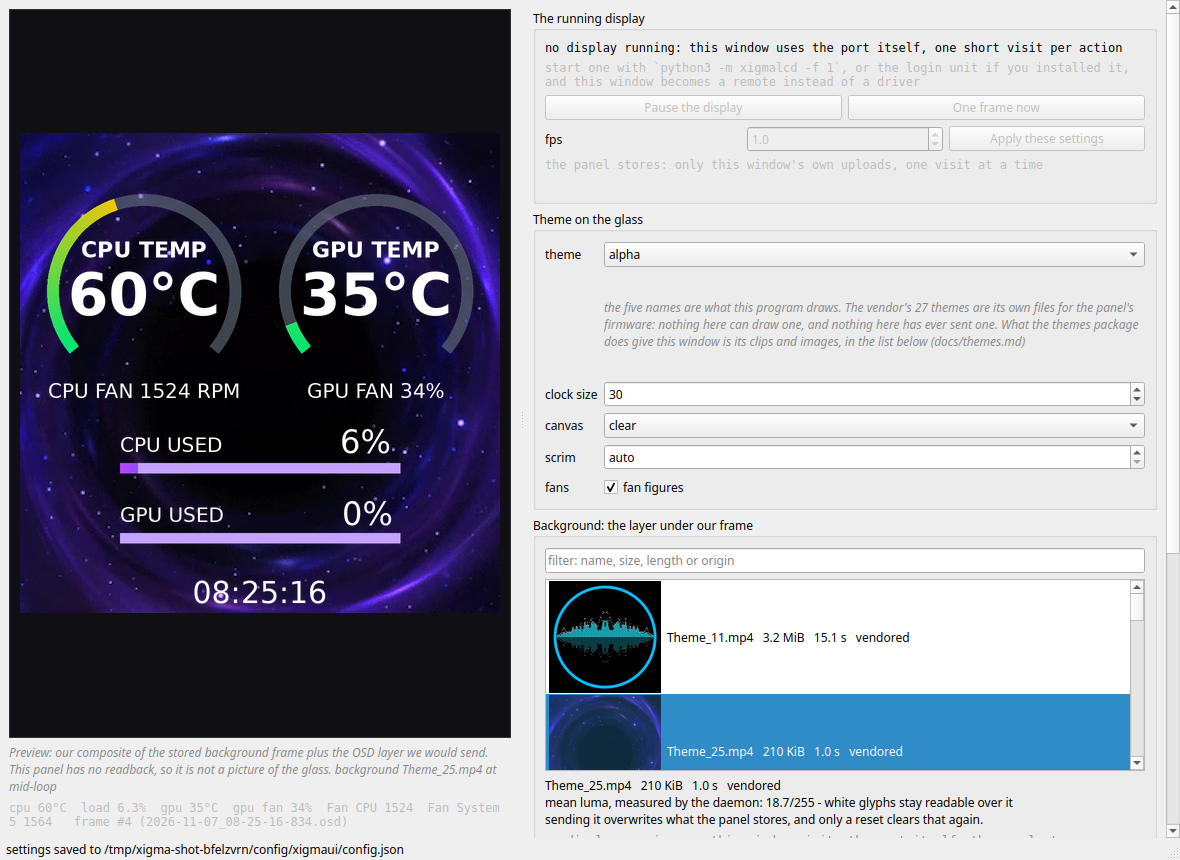
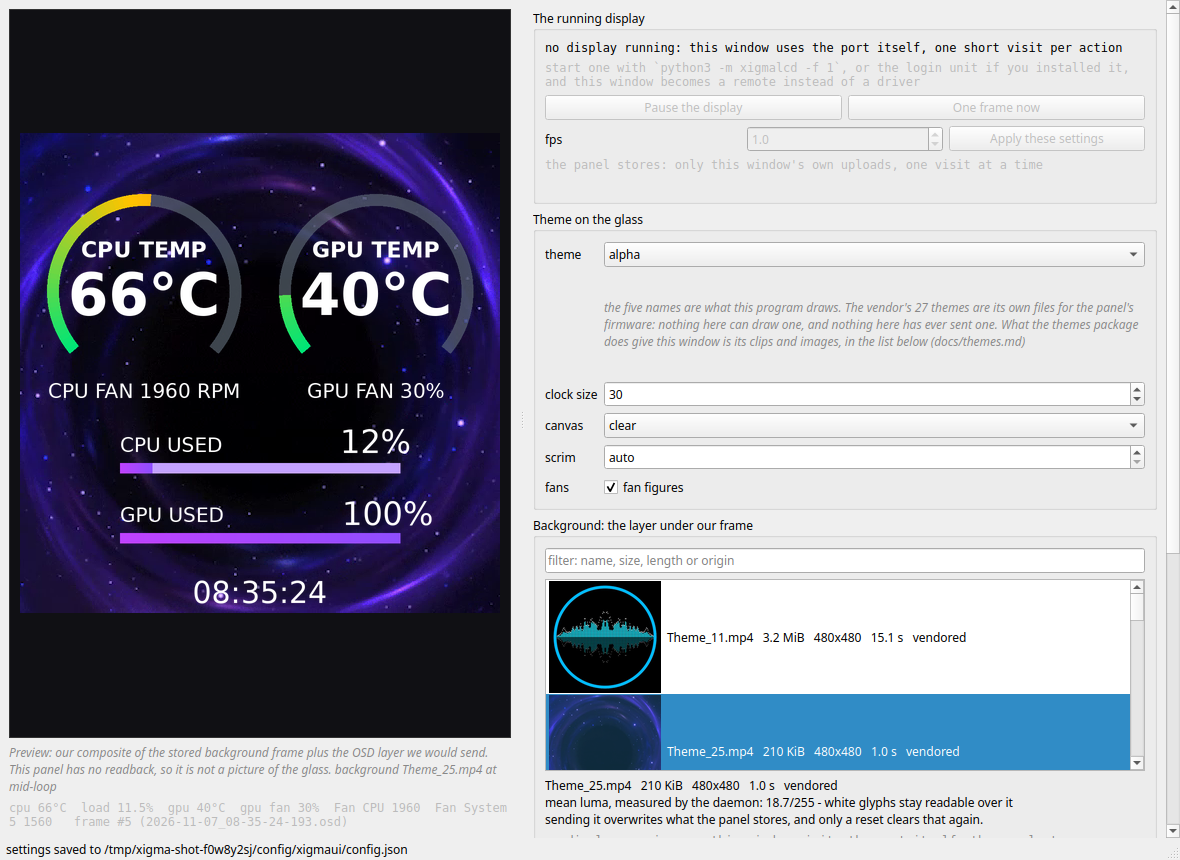
xigmaui, docs: every clip row says what size the file is, because the vendor's own library is not all 480x480
ffprobe over the installed themes tree, on this bench: `/usr/share/xigmalcd/themes/
alpha/clips/` holds 43 clips, **40 at 480x480** and **3 at 320x240** -
`2024-05-30_13-43-24-476.mp4`, `2024-05-30_14-09-30-913.mp4`,
`2024-05-31_15-01-03-396.mp4`. The three clips this repository vendors are 480x480.

So the vendor ships backgrounds the panel is not the size of, which means something -
the panel, or ALPHA - scales them, and this project has never measured what: there is no
readback (§11), and nobody has looked at the glass with one of those three stored. The
honest response is to show the number and refuse the inference:

* `xigmaui/clips.py` probes width and height in the same ffprobe call it already made
  for the loop length - no extra process per clip, so the 12.7 s thumbnail pass on this
  box does not get slower - and `Clip.px` carries it;
* every picker row now reads `name   size   480x480   15.1 s   origin`;
* and selecting a file that is not the glass's size adds one line under the list: "this
  file is 320x240, not the panel's 480x480: what it does with that is not measured, so
  the preview above is a guess". The preview composites that frame at 480x480 because
  that is what `_repaint` does, and labelling it a guess is cheaper than pretending the
  composite is the glass.

docs/limits.md keeps the measurement and the gap; docs/themes.md says the same where a
reader is looking at the library; docs/gui.md's walk-through row carries it.
[…]

diff --git a/xigmaui/clips.py b/xigmaui/clips.py
@@ -55,6 +55,7 @@ class Clip:
     origin: str                  # "vendored", "vendor library" or "app upload"
     bytes: int = 0
     seconds: float = 0.0
+    px: tuple = (0, 0)             # width, height; (0, 0) until probed
     luma: float = -1.0           # mean of 0-255, -1 until measured
     note: str = ""
     thumbs: dict = field(default_factory=dict, repr=False)
@@ -76,14 +77,29 @@ class Clip:
             else f"{self.bytes / 1024 / 1024:.1f} MiB"
 
 
-def _ffprobe_duration(path: str) -> float:
+def _ffprobe_look(path: str) -> tuple[float, int, int]:
+    """One ffprobe, three numbers: seconds, and the frame's width and height.
+
+    The geometry is not decoration.  Of the 43 clips the themes package installs,
+    40 are 480x480 - the panel's own size - and **3 are 320x240** (measured on the
+    installed tree with the same call, the odd ones being the timestamp-named
+    `2024-05-30_*` and `2024-05-31_*` files the vendor app's own history holds);
+    all three clips this repository vendors are 480x480.  What the panel does with
+    a file that is not its size is not measured and cannot be - there is no
+    readback (§11) - so the picker shows the number and leaves the inference to
+    you rather than making one.
+    """
     try:
-        out = subprocess.run(["ffprobe", "-v", "error", "-show_entries",
-                              "format=duration", "-of", "default=nk=1:nw=1",
-                              path], capture_output=True, text=True, check=True)
-        return float(out.stdout.strip())
-    except (OSError, ValueError, subprocess.CalledProcessError):
-        return 0.0
+        out = subprocess.run(
+            ["ffprobe", "-v", "error", "-select_streams", "v:0",
+             "-show_entries", "stream=width,height", "-show_entries",
+             "format=duration", "-of", "default=nw=1:nk=1", path],
+            capture_output=True, text=True, check=True)
+        numbers = [ln.strip() for ln in out.stdout.splitlines() if ln.strip()]
+        w, h = (int(numbers[0]), int(numbers[1])) if len(numbers) >= 3 else (0, 0)
+        return float(numbers[-1]), w, h
+    except (OSError, ValueError, IndexError, subprocess.CalledProcessError):
+        return 0.0, 0, 0
 
 
 def frame(path: str, at: float = 0.5) -> Image.Image | None:
@@ -101,7 +117,7 @@ def frame(path: str, at: float = 0.5) -> Image.Image | None:
     hit = _FRAME_CACHE.get(key)
     if hit is not None:
         return hit.copy()
-    dur = _ffprobe_duration(path)
+    dur, _wide, _tall = _ffprobe_look(path)   # the size is for the picker
     seek = dur * at if dur > 0.2 else 0.0
     try:
         out = subprocess.run(
@@ -204,9 +220,10 @@ def list_clips(extra: str = "") -> list[Clip]:
 
 
 def probe(clip: Clip) -> float:
-    """Measure one clip's loop length. Cheap enough to do a row at a time."""
-    if not clip.seconds:
-        clip.seconds = _ffprobe_duration(clip.path)
+    """Measure one clip's loop length and frame size. One row at a time."""
+    if not clip.seconds or not clip.px[0]:
+        clip.seconds, w, h = _ffprobe_look(clip.path)
+        clip.px = (w, h)
     return clip.seconds
 
 

diff --git a/xigmaui/app.py b/xigmaui/app.py
@@ -686,6 +686,7 @@ class Window(QMainWindow):
     def _row(self, c: clipdb.Clip) -> str:
         """One picker row. The loop length appears once it has been probed."""
         return (f"{c.name}   {c.size}   "
+                f"{f'{c.px[0]}x{c.px[1]}' if c.px[0] else 'size ?'}   "
                 f"{f'{c.seconds:.1f} s' if c.seconds else 'loop  ?'}   {c.origin}")
 
     def _populate_clips(self) -> None:
@@ -796,7 +797,20 @@ class Window(QMainWindow):
                        else "mean luma, measured just now from a decoded frame")
                 need = ("needs a scrim plate for white glyphs" if lum > BRIGHT_LUMA
                         else "white glyphs stay readable over it")
+                size_note = ""
+                if c.px[0] and c.px != (render.W, render.H):
+                    # measured here with ffprobe, and the honest half of it stays
+                    # unmeasured: 40 of the 43 clips the themes package installs are
+                    # 480x480 and 3 are 320x240, and what the panel does with a file
+                    # that is not its own size is something no log can show, because
+                    # there is no readback (§11).  So the number is shown and the
+                    # inference is left to the reader, with the preview labelled a guess
+                    size_note = (f"\nthis file is {c.px[0]}x{c.px[1]}, not the "
+                                 f"panel's {render.W}x{render.H}: what it does with "
+                                 f"that is not measured, so the preview above is a "
+                                 f"guess")
                 return (f"\n{how}: {lum:.1f}/255 - {need}"
+                        f"{size_note}"
                         f"\nsending it overwrites what the panel stores, and "
                         f"only a reset clears that again.")
         return ""

diff --git a/docs/gui.md b/docs/gui.md
@@ -69,7 +69,7 @@ there is one place to change when a number is re-measured.
 | the running display | what the socket says another process is drawing: one sentence, the counters (`40/41 uploads the panel confirmed, 0 refused, 1 renewal`, session age, last file and notice, `space`), **what the panel stores as its background** (`the panel stores: theme_47.mp4`, read out of the display's own event ring), and the ring itself - the last six things that display did on the port, with its verdict on each upload. Pause, one frame, an fps spin, `Apply these settings` (Ctrl+Return) | socket only; the port is never opened. Measured 1 ms for the six commands Apply sends |
 | preview | the stored background frame with `render.draw`'s OSD layer composited on top, refreshed at `--preview-fps` (default 2). Its column is capped at 480 px plus the pane's chrome, and the picture is never drawn larger than the glass is - see "How wide each half gets" below | nothing |
 | theme | the five themes, clock size, `clear`/`black` canvas, scrim, fan figures, and a line saying what the vendor's 27 themes in the other package are and are not | nothing until you press Apply (display running) or one of the send buttons (not running) |
-| clips | every MP4 the roots hold, listed once per clip - **69 rows** on this box: 3 vendored here, 40 more from the vendor's library, 26 more from the 69 files the Windows app has pushed to this panel (the rest are byte-identical re-uploads); the last two sources are read off the mounted Windows partition or the installed themes package, and a clip that exists in two roots keeps the row from the root the code would have chosen. Each row gets an ffmpeg thumbnail and its measured mean luma. One filter field above the list, and a row the display's own gate would refuse is greyed with its reason in the tooltip | the window's **one** upload button, `Send this background to the panel` (Ctrl+Shift+U): `STATE all 1` twice, then the whole file as one media file |
+| clips | every MP4 the roots hold, listed once per clip - **69 rows** on this box: 3 vendored here, 40 more from the vendor's library, 26 more from the 69 files the Windows app has pushed to this panel (the rest are byte-identical re-uploads); the last two sources are read off the mounted Windows partition or the installed themes package, and a clip that exists in two roots keeps the row from the root the code would have chosen. Each row gets an ffmpeg thumbnail, its measured mean luma and its measured frame size (ffprobe: 40 of the 43 clips the themes package installs are 480x480, 3 are 320x240, and a clip that is not the panel's size is labelled a guess under the list). One filter field above the list, and a row the display's own gate would refuse is greyed with its reason in the tooltip | the window's **one** upload button, `Send this background to the panel` (Ctrl+Shift+U): `STATE all 1` twice, then the whole file as one media file |
 | background state | one line under the list that keeps "I picked this" and "the panel stores this" apart, in three wordings: the display reported accepting this very clip, it reported accepting a different one, or this window has not seen an accept - and the matching row in the list is drawn bold. A file the gate refuses says so, in the gate's words, before the button is pressed | nothing: it is a readout |
 | `One frame now` | one live frame, preview and glass showing the same render | `STATE all 1` twice, then one `.osd` upload |
 | `Send frames for 30 s` | the picture loop, so you can watch the real glass | `STATE all 1` twice, then 60 uploads at 2 fps |

diff --git a/docs/limits.md b/docs/limits.md
@@ -161,6 +161,17 @@ What has been measured on glass, by whom, with how many frames - and what has no
   like is the part no log here can supply, because the panel has no readback (§11) and
   nobody at the desk was asked. So `xigmaui` offers MP4 rows only, and the package's 28
   images stay out of the picker until that observation has been made.
+* **Three of the vendor's own backgrounds are not the panel's size, and what the panel
+  does with them is unmeasured.** ffprobe over the installed library:
+  `/usr/share/xigmalcd/themes/alpha/clips/` holds 43 clips, **40 at 480×480** and **3 at
+  320×240** (`2024-05-30_13-43-24-476.mp4`, `2024-05-30_14-09-30-913.mp4`,
+  `2024-05-31_15-01-03-396.mp4`); the three clips this repository vendors are all
+  480×480. So the vendor's own app ships files that are not the glass's resolution -
+  which means the panel, or that app, scales them somewhere - but there is no readback
+  (§11) and nobody has looked at the glass with one of those three stored, so this
+  project states the numbers instead of the effect: `xigmaui` puts the measured size on
+  every clip row and, for a file that is not 480×480, says under the list that its
+  preview is a guess.
 * **The themes package is media and reference material, not a theme list.**
   `xigmatek-connect-lcd-themes` installs the vendor's own 125 files - 27 `.thm` themes,
   27 layouts, 27 background and 27 foreground images, 43 clips, under

diff --git a/docs/themes.md b/docs/themes.md
@@ -23,7 +23,10 @@ What the library **is** good for here, both of them used: its 27 layouts are the
 measured geometry the `alpha` preset was redrawn from (`xigmalcd/layout.py`, and the
 paragraph below about rings and text sizes), and its media is uploadable -
 43 clips and 28 images per install, all 43 clips under the socket gate's 8 MB ceiling
-(largest `clips/Theme_22.mp4`, 7 662 077 B). Two of those uploads have been measured on
+(largest `clips/Theme_22.mp4`, 7 662 077 B) - and note what ffprobe says about them: 40
+of the 43 are 480×480 like the panel, **3 are 320×240**, so the vendor's own library
+ships backgrounds the glass is not the size of and nothing here has measured what the
+panel does with one (docs/limits.md). Two uploads from that library have been measured on
 the packaged unit's own path: `themes/alpha/clips/theme_47.mp4` at 1 211 106 B,
 `notice 200 in 1.0 s`, and `themes/alpha/foreground/1757492775624.png` at 3 409 B,
 `notice 200 in 0.3 s`. Whether the panel *displays* a still PNG is the one half of that
